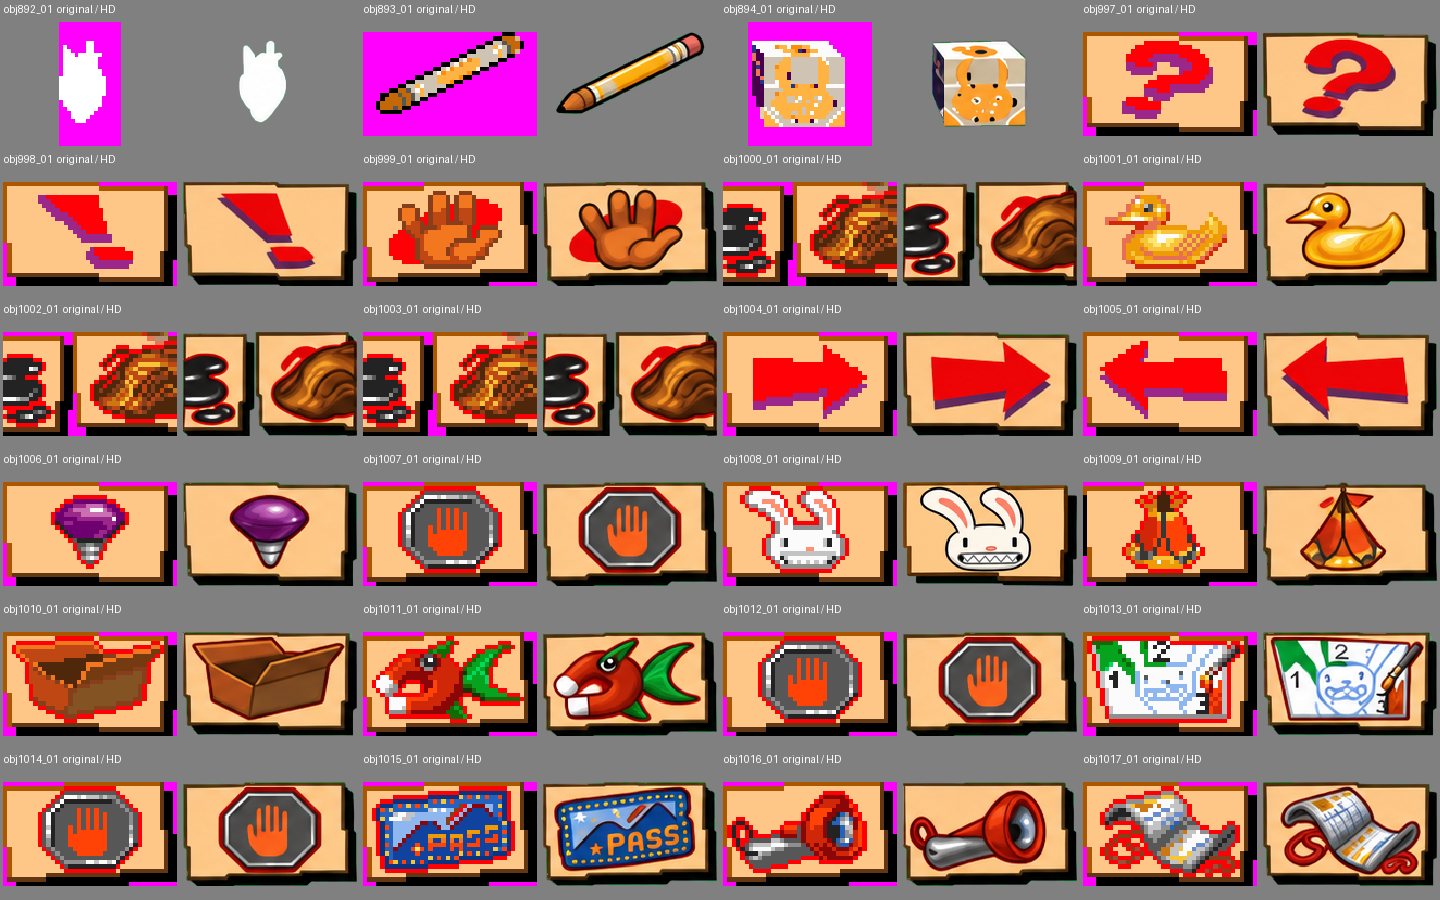
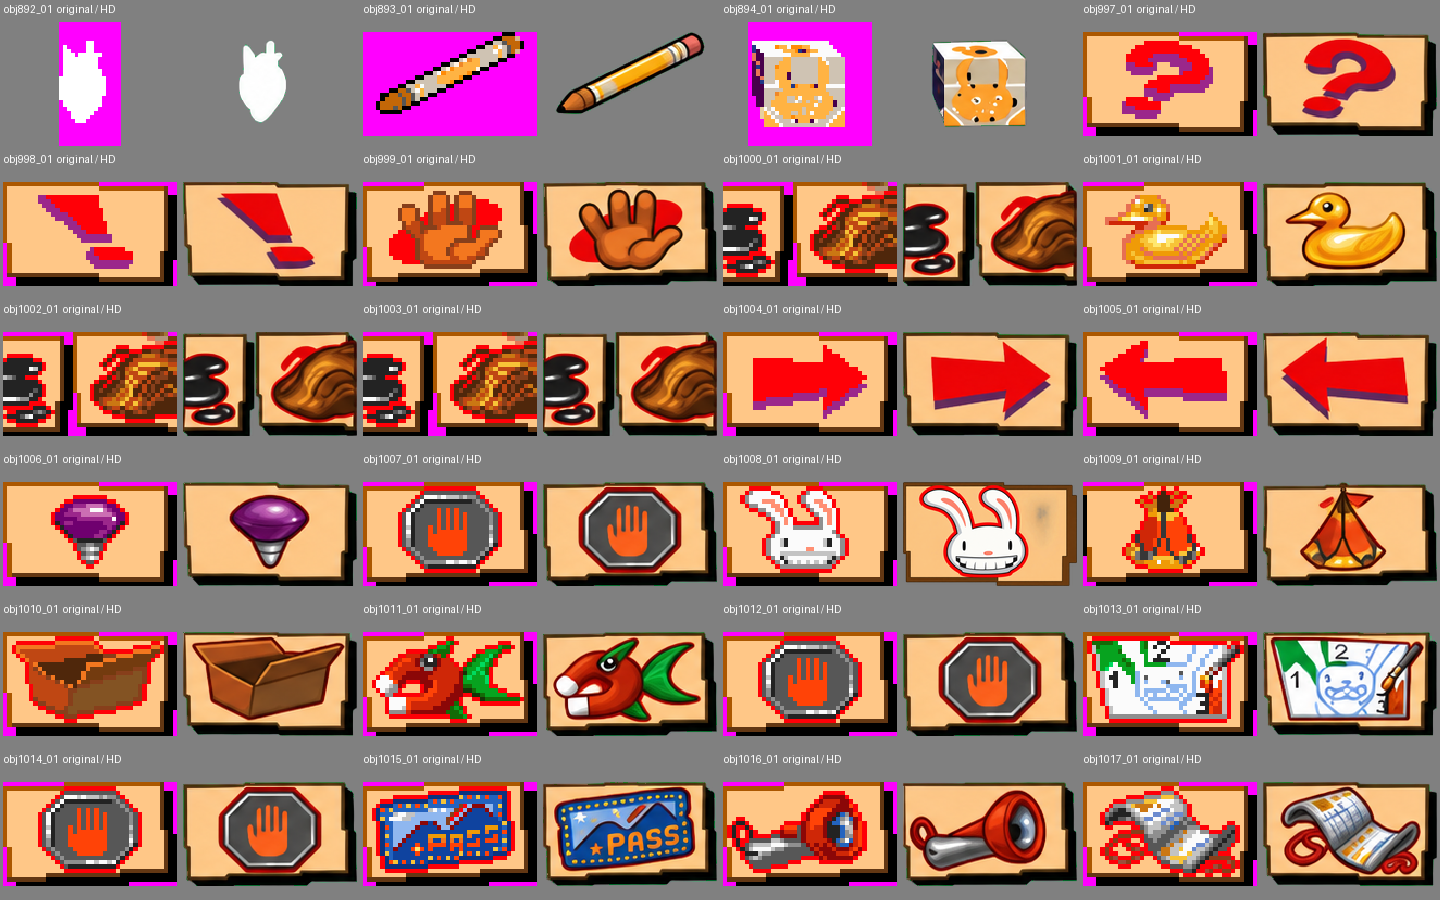
GPT: rett Max-ikon etter stilreferanser og bevar Toms føringer

Changed region(s): [[0.625, 0.5289, 0.75, 0.6533]]

diff --git a/rapporter/max-ikon-retting-20261015/RAPPORT.md b/rapporter/max-ikon-retting-20261015/RAPPORT.md
@@ -1,0 +1,20 @@
+# Retting av Max-ikonet 15. oktober 2026
+
+Tom avviste obj1008_01 fra ikon08: ansiktet lignet ikke Max. Toms vedlegg viser en generisk dobbeltbuet kaninmunn og rødt innslag i øynene. Den forrige leverte RGBA-eksporten hadde allerede svarte øyne og sikksakktenner, men hodet var fortsatt rundere og mer generisk enn originalikonet. Sammenligningen viser den faktiske forrige eksporten og den nye rettingen. Egenkontrollen bestod, men teknisk kontroll avgjør ikke figuridentitet.
+
+## Grunnlag
+
+- Original: jobber/ikon08/original_1x.png, rektangel [196, 76, 40, 24], objekt 1008 i rom 94. Forstørret referanse er max-original-20x.png.
+- Godkjent figurreferanse: hovedark/max.png, godkjent av Tom 13. oktober 2026. Låser Max-identiteten.
+- Stilreferanse: referanser/purcell-farge-20261013.png, levert av Tom. Låser strek og figurens særpreg.
+- Toms vedlegg 1000053313.jpg påviser feil figuruttrykk, og brukes ikke som nytt stilanker.
+
+Identiteten er avklart, Max. Walkthrough er derfor ikke nødvendig for å identifisere dette motivet. Originalens ørebøy, små svarte øyne, rosa nese, hvite hode, brede lukkede tannglis, røde markeringskant og beige kort med brun kant er bevart som motivgrunnlag. Ingen andre motiver er tolket på nytt i denne rettingen.
+
+## Produksjon og kontroll
+
+Ett nytt kall med innebygd image_gen og de tre referansene vedlagt. Eksakt modellnavn var ikke eksponert. Den sendte prompten er prompt01.txt; valgt råbilde er max-raa01.png. Ekte alfa fra generatoren er bevart. Med Toms tidligere uttrykkelige ja til Python er tegningen skalert med premultiplisert alfa og plassert etter originalens synlige boks. Ingen originalpiksler eller originalens konturmaske er brukt som tegning.
+
+Reproduksjon: rapporter/ikoner-ui-20261015/klargjor-ikoner.py.txt. Hele ikon08/resultat.png og RGBA-eksporten obj1008_01.png er oppdatert. De andre 46 feltene på ikon08 og de øvrige 110 RGBA-ikonene er uendret. Ikon07 og ikon09 har identiske sjekksummer som før. Beskyttede jobbfiler er uendret. Alle tre ark består uendret sjekk_leveranse.py. Små svarte øyne og synlig tannglis er visuelt kontrollert både i 160 x 96 og forstørret sammenligning. Dette er ikke Toms godkjenning. Ingen motorimport eller spilltest.
+
+Toms føring er dokumentert i AGENTS.md og ANALYSE.md: se alltid relevante godkjente stilreferanser før nytegning, spør Tom hvis motivet er usikkert, og bruk ved behov walkthroughs til å avklare gjenstander, steder og brukssituasjoner med kildehenvisning. En gjetning skal ikke bli produksjonsgrunnlag.

diff --git a/rapporter/ikoner-ui-20261015/RAPPORT.md b/rapporter/ikoner-ui-20261015/RAPPORT.md
@@ -1,5 +1,7 @@
 # Verb- og inventarikoner, 15. oktober 2026
 
+Oppdatert etter Toms avvisning av Max-ikonet obj1008_01. Det første resultatet lignet en generisk kanin, og vår visuelle kontroll overså figurfeilen. Dette ene ikonet er nå tegnet på nytt med riktig original, godkjent Max-hovedark og Purcell-referanse. Ny tegning har små svarte øyne og det brede tanngliset. Ekte alfa er bevart. De øvrige 110 RGBA-ikonene og ikon07/ikon09 er uendret. Se [rettingsrapporten](../max-ikon-retting-20261015/RAPPORT.md). Tom har ikke godkjent rettingen ennå.
+
 Toms prioritering: start med ikoner til verbhjul og inventory. Dette går foran rekkefølgen i ORDRE. Tom ga også uttrykkelig ja til Python for rensing og presis plassering av de nytegnede ikonene.
 
 ## Leveranse
@@ -36,7 +38,7 @@ Skript 1 setter menyikonene 879, 880, 881, 882 og 888. Skript 48/51 kobler se ti
 
 ## Produksjon
 
-Seks innebygde image_gen-kall. Eksakt bildemodellnavn var ikke eksponert. Fire råbilder bidrar til leveransen: tre grunnark og ett større rettingsark med tolv motiver. To andre rettingsforsøk ble forkastet, blant annet et forsøk som falt tilbake til pikselgrafikk. Sendte prompter og råbilder er bevart.
+Først seks innebygde image_gen-kall. Eksakt bildemodellnavn var ikke eksponert. Tre grunnark og ett større rettingsark bidro til første leveranse. To andre rettingsforsøk ble forkastet, blant annet et forsøk som falt tilbake til pikselgrafikk. Deretter ett eget image_gen-kall som erstatter bare Max-ikonet etter Toms avvisning. Samlet sju kall, fem valgte råbilder. Sendte prompter og råbilder er bevart.
 
 Første generering ga blant annet generisk Max-ansikt, ny Gator-tekst, feil totemmotiv og påfunn på noen portretter. Tolv motiver ble derfor generert på nytt som større komponenter. Valgte nye komponenter er renset for grønn bakgrunn og plassert etter originalens synlige bokser. `klargjor-ikoner.py.txt` gjenskaper leveransen. Både kildeidentiske fragmenter og de fire tomme beige kortene gjenbruker samme nye bildebytes.
 

diff --git a/jobber/ikon08/notat.md b/jobber/ikon08/notat.md
@@ -1,6 +1,8 @@
 # ikon08
 
-Levert 2026-10-15T10:41:31+02:00: 47 ikon-/objektbilder, 1536 x 1024 RGB. Egenkontroll OK. SHA-256: fdd82b2eaaa582168a2c686e4c858c566c3c91ec296878f3d83f53e77db7ca14.
+Levert 15. oktober 2026, rettet samme dag etter Toms avvisning av Max-ikonet: 47 ikon-/objektbilder, 1536 x 1024 RGB. Egenkontroll OK. SHA-256: 614a1c98a60896f243155a11fb575dc8e2f68b0684e8422ed842036326a99b5d.
+
+Tom avviste ansiktet i obj1008_01 fordi det ikke lignet Max. Ett nytt innebygd image_gen-kall retter bare denne tegningen, med originalikonet, godkjent hovedark/max.png og Purcell-fargereferansen vedlagt. Hodeform, ørebøy og bredt lukket tannglis følger nå originalikonet; små svarte øyne er beholdt. Ny ekte alfa er bevart; Python brukes bare til skalering og plassering med Toms tidligere ja. De andre 46 bildene er byteidentiske med forrige leveranse. Se rapporter/max-ikon-retting-20261015/RAPPORT.md. Ny individuell godkjenning fra Tom og spilltest gjenstår.
 
 Innebygd image_gen, eksakt modellnavn ikke eksponert. Tre grunnkall og et større rettingsark bidrar til de tre leveransene; to andre forsøk er forkastet. Motiver kontrollert mot originalen og spillets egne skript. Tom godkjente Python til rensing/plassering. Flat grønn arkbakgrunn, bytepresis grå ytterkant. Nye tegnede komponenter plassert etter kildebokser, ingen originalpiksler eller konturmasker brukt som tegning. Egne RGBA-objekter med myke kanter følger med.
 

diff --git a/ANALYSE.md b/ANALYSE.md
@@ -62,6 +62,12 @@ Kilderegisteret [Steve's Sam & Max arts](https://samandmax.fandom.com/wiki/Steve
 
 ## Minste kontrollgrunnlag før et produksjonsark
 
+### Rettelse fra Tom 15. oktober 2026: Max-ikonet
+
+Tom avviste Max-ikonet `obj1008_01` fra ikonpakken: ansiktet lignet en generisk kanin. Den runde dobbeltbuede munnen og røde innslaget i øynene fjernet Max-uttrykket. Bruk alltid originalen sammen med godkjente stilreferanser før hvert motiv tegnes, også små inventar- og samtaleikoner. Spør Tom når identitet eller betydning fortsatt er usikker. Walkthroughs kan avklare gjenstander og steder, men en slik kilde erstatter ikke riktig original og godkjent figurdesign. Kilder og eventuell usikkerhet dokumenteres i jobbnotatet. Teknisk kontroll er fortsatt ikke kontroll av figuridentitet.
+
+For dette ikonet er identiteten avklart: Max. Originalens ørebøy, små svarte øyne, lille rosa nese og brede lukkede tannglis styrer formen. `hovedark/max.png`, godkjent av Tom 13. oktober, og Purcell-referansen styrer figuridentitet og strek. Det avviste kaninansiktet brukes ikke som stilanker.
+
 | Felt | Det som skal være avklart |
 | --- | --- |
 | Identitet | Personens navn eller eksplisitt uavklart rolle, kostymevariant og tilstand |

diff --git a/log.md b/log.md
@@ -410,3 +410,8 @@
 - Tom prioriterte verbhjul/inventory og ga ja til Python for rensing og plassering.
 - Levert ikon07, ikon08 og ikon09: 117 bilder i arkene, 21 separate handlingspekere og 90 inventar-/samtalebilder som RGBA, pluss fem navngitte verbhjulikoner. Tre ark OK, 12 beskyttede filer uendret, kildeidentiske familier eksportert identisk.
 - Spillets egne skript avklarte de tidligere ukjente ikonmotivene. Seks bildekall; to forsøk forkastet. Tolv motiver rettet i større utsnitt. Ingen motorendring, import, hd-mod eller spilltest. Se rapporter/ikoner-ui-20261015/RAPPORT.md.
+
+## 2026-10-15: Max-ikon etter Toms rettelse
+
+- Tom avviste obj1008_01 som generisk kanin. Ett nytt innebygd image_gen-kall med originalikon, godkjent Max-hovedark og Purcell-referanse. Tannglis og små svarte øyne tilbake; ekte alfa bevart. Ikon08 og eksport oppdatert, andre ikoner uendret.
+- Alle tre ark OK; 12 beskyttede filer uendret. Brukerføringen om alltid å se stilreferanser og spørre ved usikkert motiv er lagt i AGENTS.md og ANALYSE.md. Ingen ny brukergodkjenning, motorimport eller spilltest.

diff --git a/STATUS.md b/STATUS.md
@@ -27,3 +27,5 @@ Se [ANALYSE.md](ANALYSE.md): tynnere Bigfoot-strek og Steve Purcell-referansene 
 ## Hovedark 2026-10-13 15:47
 
 To hovedark er levert som pilotkandidater: hovedark/sam.png og hovedark/max.png, med notater, prompter, SHA-256 og kontroll i rapporter/hovedark-20261013/. Begge er PNG 1536 x 1024 med ekte alfa og fem visninger. Egenkontroll SJEKK, ingen FEIL i valgte kandidater. Sam er 5 til 7 prosent for høy i ståvisningene; Max 10 til 12 prosent for lav. Bredde og plassering er også dokumentert som avvik. Ikke godkjente stilankere eller ferdige produksjonsark. Ingen motorimport eller spilltest.
+
+Max-ikonet obj1008_01 er rettet etter Toms avvisning 15. oktober. Ny tegning fra originalen, godkjent hovedark og Purcell-referanse, med små svarte øyne og tannglis. Ikon08 består egenkontroll; de øvrige 110 RGBA-ikonene er uendret. Toms godkjenning og spilltest gjenstår. Se [rettingsrapport](rapporter/max-ikon-retting-20261015/RAPPORT.md).

diff --git a/AGENTS.md b/AGENTS.md
@@ -18,6 +18,8 @@ Regelen gjelder også når jobbformatet ber om ordrett prompt. Ved påvist feil 
 
 ## Faste regler
 
+- Tom presiserte 15. oktober 2026: se alltid originalen og de relevante godkjente stilreferansene før nytegning, også for små ikoner. Spør Tom hvis det fortsatt er uklart hva et motiv er. Walkthroughs og spillgjennomganger på nettet kan brukes til å avklare gjenstander, steder og brukssituasjoner, med kilder i notatet. En gjetning skal ikke bli produksjonsgrunnlag.
+
 - Jobb bare i denne grenen (`gpt-arbeid`). Aldri push til `main`, og lag ikke egne grener eller PR-er for grafikken.
 - Endre aldri `referanse.png`, `original_1x.png`, `prompt.txt` eller `jobb.json`, verken i `jobber/` eller i `hovedark/`.
 - Lever `jobber/<jobb>/resultat.png` og `jobber/<jobb>/notat.md`. Hovedarkene leveres som `hovedark/<navn>.png` med `hovedark/<navn>-notat.md`.

diff --git a/todo.md b/todo.md
@@ -132,3 +132,6 @@
 - [x] Levert de tre siste ikonarkene: ikon07, ikon08 og ikon09, alle OK i egenkontroll.
 - [x] Eksportert 21 handlingspekere og 90 inventar-/samtalebilder med ekte alfa og manifest, pluss fem navngitte grunnikoner for verbhjul.
 - [ ] Kontroller de nye ikonene i mottaket og spillet, særlig alfa/nøkkelfarge og små motivtolkninger.
+
+- [x] Rettet Max-ikonet obj1008_01 etter Toms avvisning med original og godkjente figur-/stilreferanser.
+- [ ] Tom vurderer rettet Max-ikon. Kontroller videre i mottak og spill.
